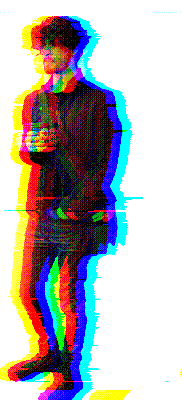
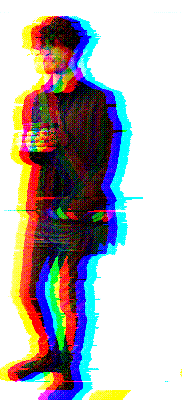
dark theme

diff --git a/app/content/dir.ts b/app/content/dir.ts
@@ -1094,21 +1094,29 @@ const FS_ROOT: Directory = {
               class: 'dir',
               name: 'intro',
               created: 1687629331,
-              modified: 1687657874,
+              modified: 1688018646,
               items: [
                 {
                   class: 'dir',
                   name: 'resources',
                   created: 1687657872,
-                  modified: 1687657874,
+                  modified: 1688018982,
                   items: [
+                    {
+                      class: 'file',
+                      type: 'image',
+                      name: 'me copy.png',
+                      created: 1688018968,
+                      modified: 1688018968,
+                      size: 28089,
+                    },
                     {
                       class: 'file',
                       type: 'image',
                       name: 'me.png',
                       created: 1687449488,
-                      modified: 1687449488,
-                      size: 28089,
+                      modified: 1688018982,
+                      size: 20119,
                     },
                   ],
                 },
@@ -2188,7 +2196,7 @@ const FS_ROOT: Directory = {
                   class: 'dir',
                   name: 'Start',
                   created: 1687720317,
-                  modified: 1687723035,
+                  modified: 1688014710,
                   items: [
                     {
                       class: 'file',
@@ -2205,6 +2213,14 @@ const FS_ROOT: Directory = {
                       created: 1687720714,
                       modified: 1687720714,
                       size: 496,
+                    },
+                    {
+                      class: 'file',
+                      type: 'image',
+                      name: 'favorites.png',
+                      created: 1688014693,
+                      modified: 1688014693,
+                      size: 450,
                     },
                     {
                       class: 'file',

diff --git a/app/styles/theme.css b/app/styles/theme.css
@@ -1,5 +1,6 @@
 @layer base {
-  :root {
+  :root,
+  .theme-default {
     --color-desktop: 0 128 128;
     --color-background: 255 255 255;
     --color-highlight: 255 255 128;
@@ -10,16 +11,16 @@
     --color-light: 222 222 222;
     --color-lighter: 255 255 255;
   
-    --color-title: var(--color-darker);
-    --color-text: var(--color-darker);
+    --color-title: 0 0 0;
+    --color-text: 0 0 0;
     --color-heading: var(--color-text);
     --color-heading-2: var(--color-heading);
     --color-heading-3: 0 0 128;
   
-    --color-text-light: var(--color-dark);
-    --color-text-disabled: var(--color-dark);
+    --color-text-light: 128 128 128;
+    --color-text-disabled: 128 128 128;
     --color-text-disabled-shadow: var(--color-lighter);
-    --color-text-accent: 0 128 128;
+    --color-text-accent: 0 0 128;
   
     --color-text-link: 0 102 204;
     --color-text-visited: 85 26 139;
@@ -27,6 +28,37 @@
     --color-selection-bg: 0 0 128;
     --color-selection-text: 255 255 255;
   
-    --color-border: var(--color-darker);
+    --color-border: 0 0 0;
+  }
+
+  .theme-dark {
+    --color-desktop: 0 64 64;
+    --color-background: 40 40 40;
+    --color-highlight: 96 32 32;
+  
+    --color-surface: 64 64 64;
+    --color-dark: 32 32 32;
+    --color-darker: 0 0 0;
+    --color-light: 104 104 104;
+    --color-lighter: 144 144 144;
+  
+    --color-title: 222 222 222;
+    --color-text: 222 222 222;
+    --color-heading: var(--color-text);
+    --color-heading-2: var(--color-heading);
+    --color-heading-3: 143 188 239;
+  
+    --color-text-light: 128 128 128;
+    --color-text-disabled: 32 32 32;
+    --color-text-disabled-shadow: var(--color-lighter);
+    --color-text-accent: 76 148 230;
+  
+    --color-text-link: 97 149 209;
+    --color-text-visited: 161 77 203;
+
+    --color-selection-bg: 255 255 128;
+    --color-selection-text: 0 0 0;
+  
+    --color-border: 128 128 128;
   }
 }

diff --git a/app/stores/system.ts b/app/stores/system.ts
@@ -3,10 +3,20 @@ import { create } from 'zustand';
 import { persist } from 'zustand/middleware';
 import merge from 'ts-deepmerge';
 
+import type { AnyFile, Directory } from '~/content/types';
+import {
+  defaultTheme,
+  type SystemTheme,
+} from '~/components/apps/ThemeSettings/types';
+
 import {
   defaultFilesSettings,
   type FilesSettings,
 } from '~/components/apps/Files/types';
+import {
+  defaultMinesweeperSettings,
+  type MinesweeperSettings,
+} from '~/components/apps/Minesweeper/types';
 import {
   defaultSolitaireSettings,
   type SolitaireSettings,
@@ -15,12 +25,6 @@ import {
   defaultSudokuSettings,
   type SudokuSettings,
 } from '~/components/apps/Sudoku/types';
-
-import type { AnyFile, Directory } from '~/content/types';
-import {
-  defaultMinesweeperSettings,
-  type MinesweeperSettings,
-} from '~/components/apps/Minesweeper/types';
 
 const MAX_FILE_HISTORY = 10; // Number of last accessed files to keep
 const MAX_DIR_HISTORY = 10; // Number of last accessed directories to keep
@@ -51,6 +55,7 @@ interface SystemState {
   };
   fileHistory: FileAccess[];
   dirHistory: DirectoryAccess[];
+  theme: SystemTheme;
 
   _schema: number;
 }
@@ -70,6 +75,9 @@ interface SystemActions {
   // File and folder history
   saveFileToHistory: (item: FileAccess) => void;
   saveDirToHistory: (item: DirectoryAccess) => void;
+
+  // System theme
+  updateTheme: (theme: SystemTheme) => void;
 }
 
 /**
@@ -90,6 +98,7 @@ const useSystemStore = create<SystemState & SystemActions>()(
       },
       fileHistory: [],
       dirHistory: [],
+      theme: defaultTheme,
 
       _schema: SCHEMA_VERSION,
 
@@ -122,6 +131,8 @@ const useSystemStore = create<SystemState & SystemActions>()(
             ),
           ].slice(0, MAX_DIR_HISTORY),
         })),
+
+      updateTheme: (theme) => set(() => ({ theme })),
     }),
     {
       name: 'system-storage',

diff --git a/app/components/desktop/Window/Window.tsx b/app/components/desktop/Window/Window.tsx
@@ -6,6 +6,9 @@ import Button from '~/components/ui/Button';
 import AppOutlet, { type AppState } from '~/components/apps/renderApp';
 import { WindowProvider } from './context';
 import useDesktopStore from '~/stores/desktop';
+import Restore from '~/components/ui/icons/Restore';
+import Max from '~/components/ui/icons/Max';
+import Close from '~/components/ui/icons/Close';
 
 export enum WindowSizingMode {
   RESIZABLE = 'standard',
@@ -226,18 +229,11 @@ export default function Window<T extends string>(props: WindowProps<T>) {
           <div className="flex flex-row">
             {props.maximizable ? (
               <Button onClick={() => toggleMaximized(id)}>
-                {maximized ? (
-                  <img
-                    src="/fs/system/Resources/UI/restore.png"
-                    alt="Restore"
-                  />
-                ) : (
-                  <img src="/fs/system/Resources/UI/max.png" alt="Maximize" />
-                )}
+                {maximized ? <Restore /> : <Max />}
               </Button>
             ) : null}
             <Button onClick={() => close(id)}>
-              <img src="/fs/system/Resources/UI/close.png" alt="Close" />
+              <Close />
             </Button>
           </div>
         </div>

diff --git a/app/root.tsx b/app/root.tsx
@@ -9,12 +9,31 @@ import {
 } from '@remix-run/react';
 
 import styles from './styles/index.css';
+import useSystemStore from './stores/system';
+import { useState, useEffect } from 'react';
 
 export const links: LinksFunction = () => [{ rel: 'stylesheet', href: styles }];
 
+// For persisted Zustand store with SSR
+const useStore = <T, F>(
+  store: (callback: (state: T) => unknown) => unknown,
+  callback: (state: T) => F,
+) => {
+  const result = store(callback) as F;
+  const [data, setData] = useState<F>();
+
+  useEffect(() => {
+    setData(result);
+  }, [result]);
+
+  return data;
+};
+
 export default function App() {
+  const theme = useStore(useSystemStore, (store) => store.theme);
+
   return (
-    <html lang="en">
+    <html lang="en" className={theme?.cssClass}>
       <head>
         <meta charSet="utf-8" />
         <meta name="viewport" content="width=device-width,initial-scale=1" />

diff --git a/app/components/desktop/Desktop/Desktop.client.tsx b/app/components/desktop/Desktop/Desktop.client.tsx
@@ -6,6 +6,7 @@ import Button from '~/components/ui/Button';
 import useDesktopStore from '~/stores/desktop';
 import { about } from '~/components/apps/About';
 import { intro } from '~/components/apps/Intro';
+import cn from 'classnames';
 
 export default function Desktop() {
   const { windows, launch, shutdownDialog, shutdown } = useDesktopStore();
@@ -29,7 +30,7 @@ export default function Desktop() {
 
   return (
     <>
-      <div className="w-screen h-screen flex flex-col overflow-hidden">
+      <div className={cn('w-screen h-screen flex flex-col overflow-hidden')}>
         <div id="desktop" className="relative flex-1 bg-desktop">
           {windows.map((window) => (
             <Window key={window.id} {...window} />

diff --git a/app/components/apps/ThemeSettings/ThemeSettings.tsx b/app/components/apps/ThemeSettings/ThemeSettings.tsx
@@ -1,10 +1,25 @@
+import useSystemStore from '~/stores/system';
+import { themes } from './types';
+import Button from '~/components/ui/Button';
+
 export default function ThemeSettings() {
+  const { theme, updateTheme } = useSystemStore();
+
   return (
     <div className="flex flex-col gap-1">
       <div className="grid place-items-center w-80 h-60 bevel-content">
         TODO: Preview
       </div>
-      theme settings
+
+      {themes.map((t) => (
+        <Button
+          key={t.cssClass}
+          disabled={t.cssClass === theme.cssClass}
+          onClick={() => updateTheme(t)}
+        >
+          <span>{t.name}</span>
+        </Button>
+      ))}
     </div>
   );
 }

diff --git a/app/components/apps/Files/views/FilesGridView.tsx b/app/components/apps/Files/views/FilesGridView.tsx
@@ -41,7 +41,7 @@ export default function FilesGridView({ dir, open, select }: FilesViewProps) {
               <div className="max-h-8 z-[1]">
                 <div
                   className={cn(
-                    'px-0.5 [overflow-wrap:anywhere]',
+                    'px-0.5 text-ellipsis',
                     'group-focus:bg-selection group-focus:text-selection',
                     'line-clamp-2 group-focus:line-clamp-none',
                   )}

diff --git a/app/components/apps/Files/AddressBar.tsx b/app/components/apps/Files/AddressBar.tsx
@@ -164,7 +164,7 @@ export default function AddressBar({ path, navigate }: AddressBarProps) {
                 autoFocus
                 value={search}
                 onValueChange={setSearch}
-                className="flex-1 outline-none py-0.5 px-1.5"
+                className="flex-1 outline-none py-0.5 px-1.5 bg-transparent"
               />
 
               <Button className="ml-auto" onClick={() => setOpen(false)}>

diff --git a/app/components/ui/icons/Close.tsx b/app/components/ui/icons/Close.tsx
@@ -1,0 +1,14 @@
+export default function Close(props: React.ComponentProps<'svg'>) {
+  return (
+    <svg
+      xmlns="http://www.w3.org/2000/svg"
+      viewBox="0 0 12 10"
+      width={12}
+      height={10}
+      fill="currentcolor"
+      {...props}
+    >
+      <path d="M7 4v1h1v1h1v1h1v1H8V7H7V6H5v1H4v1H2V7h1V6h1V5h1V4H4V3H3V2H2V1h2v1h1v1h2V2h1V1h2v1H9v1H8v1H7z" />
+    </svg>
+  );
+}

diff --git a/app/components/ui/icons/Restore.tsx b/app/components/ui/icons/Restore.tsx
@@ -1,0 +1,14 @@
+export default function Restore(props: React.ComponentProps<'svg'>) {
+  return (
+    <svg
+      xmlns="http://www.w3.org/2000/svg"
+      viewBox="0 0 12 10"
+      width={12}
+      height={10}
+      fill="currentcolor"
+      {...props}
+    >
+      <path d="M4 0v3H2v6h6V6h2V0H4Zm3 8H3V5h4v3Zm2-3H8V3H5V2h4v3Z" />
+    </svg>
+  );
+}

diff --git a/app/components/ui/icons/Max.tsx b/app/components/ui/icons/Max.tsx
@@ -1,0 +1,14 @@
+export default function Max(props: React.ComponentProps<'svg'>) {
+  return (
+    <svg
+      xmlns="http://www.w3.org/2000/svg"
+      viewBox="0 0 12 10"
+      width={12}
+      height={10}
+      fill="currentcolor"
+      {...props}
+    >
+      <path d="M1 0v9h9V0H1Zm8 8H2V2h7v6Z" />
+    </svg>
+  );
+}
